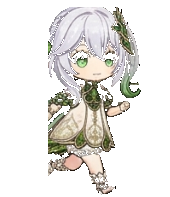
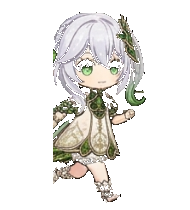
fix(companion): preserve floating height when clicked and eliminate cape/leaf clipping

Changed region(s): [[0.2647, 0.0305, 0.8235, 1.0]]

diff --git a/src/components/athena_widget.rs b/src/components/athena_widget.rs
@@ -147,6 +147,7 @@ pub fn AthenaWidget() -> impl IntoView {
         let mut pos_bottom: f64 = 20.0;
         let floor_bottom: f64 = 20.0;
         let left_boundary: f64 = 24.0;
+        let mut chat_anchor_bottom: f64 = 20.0;
 
         let mut state_time: f64 = 0.0;
         let mut anim_accum_ms: f64 = 0.0;
@@ -242,6 +243,11 @@ pub fn AthenaWidget() -> impl IntoView {
                 state = CharacterState::ChatStandby;
                 state_time = 0.0;
                 anim_accum_ms = 0.0;
+                // Preserve floating altitude if clicked in mid-air (clamped so thought bubble fits on screen)
+                let max_dock_bottom = (win_h - 540.0 - 140.0).max(floor_bottom);
+                chat_anchor_bottom = pos_bottom.clamp(floor_bottom, max_dock_bottom);
+                pos_bottom = chat_anchor_bottom;
+
                 set_current_sprite.set(POSE_STANDBY);
                 set_bubble_text.set("Ask me anything!");
                 set_bubble_icon.set("✨");
@@ -249,12 +255,22 @@ pub fn AthenaWidget() -> impl IntoView {
                 set_rotation.set(0.0);
                 set_scale.set(1.0);
             } else if !open && was_open {
-                state = CharacterState::Running;
+                // If closed while elevated, continue floating down with parachute
+                if pos_bottom > floor_bottom + 15.0 {
+                    state = CharacterState::Dropped;
+                    set_current_sprite.set(if direction == Direction::Left { DROPPED_LEFT } else { DROPPED_RIGHT });
+                    set_bubble_text.set("Floating... ✨");
+                    set_bubble_icon.set("🪂");
+                    set_bubble_dot.set("#34d399");
+                } else {
+                    pos_bottom = floor_bottom;
+                    state = CharacterState::Running;
+                    set_bubble_text.set("Exploring...");
+                    set_bubble_icon.set("🌿");
+                }
                 state_time = 0.0;
                 anim_accum_ms = 0.0;
                 set_rotation.set(0.0);
-                set_bubble_text.set("Exploring...");
-                set_bubble_icon.set("🌿");
             }
             was_open = open;
 
@@ -438,7 +454,8 @@ pub fn AthenaWidget() -> impl IntoView {
 
                 // 7. Thinking (Slow 500ms pose loop)
                 CharacterState::Thinking => {
-                    pos_bottom = floor_bottom;
+                    let float_y = (state_time / 1200.0).sin() * 1.5;
+                    pos_bottom = chat_anchor_bottom + float_y;
                     set_rotation.set(0.0);
                     if anim_accum_ms >= 500.0 {
                         anim_accum_ms = 0.0;
@@ -454,9 +471,10 @@ pub fn AthenaWidget() -> impl IntoView {
                     set_bubble_dot.set("#60a5fa");
                 }
 
-                // 9. Answering / Excited (220ms pose loop)
+                // 8. Answering / Excited (220ms pose loop)
                 CharacterState::Answering => {
-                    pos_bottom = floor_bottom;
+                    let float_y = (state_time / 1200.0).sin() * 1.5;
+                    pos_bottom = chat_anchor_bottom + float_y;
                     set_rotation.set(0.0);
                     if anim_accum_ms >= 220.0 {
                         anim_accum_ms = 0.0;
@@ -472,13 +490,19 @@ pub fn AthenaWidget() -> impl IntoView {
                     set_bubble_dot.set("#fbbf24");
                 }
 
-                // 10. Standby / Neutral Standing (rising_04 with subtle procedural float)
-                CharacterState::Standby | CharacterState::ChatStandby => {
+                // 9. Standby / Neutral Standing (rising_04 with subtle procedural float)
+                CharacterState::Standby => {
                     set_current_sprite.set(POSE_STANDBY);
                     set_rotation.set(0.0);
-                    // Subtle float: ~1.5px vertical breath cycle
                     let float_y = (state_time / 1200.0).sin() * 1.5;
                     pos_bottom = floor_bottom + float_y;
+                }
+
+                CharacterState::ChatStandby => {
+                    set_current_sprite.set(POSE_STANDBY);
+                    set_rotation.set(0.0);
+                    let float_y = (state_time / 1200.0).sin() * 1.5;
+                    pos_bottom = chat_anchor_bottom + float_y;
                 }
 
                 CharacterState::Dragging => {}
@@ -591,7 +615,7 @@ pub fn AthenaWidget() -> impl IntoView {
         let modal_left = ideal_left.clamp(12.0, (win_w - modal_width - 12.0).max(12.0));
 
         // Position bottom of thought bubble directly above Nahida's head (+ gap for connector dots)
-        let modal_bottom = bottom.get() + 116.0;
+        let modal_bottom = (bottom.get() + 116.0).min(win_h - modal_height - 16.0).max(16.0);
 
         // Tail connector offset (points directly down towards Athena)
         let tail_x = (athena_center_x - modal_left).clamp(36.0, modal_width - 36.0);
@@ -690,7 +714,7 @@ pub fn AthenaWidget() -> impl IntoView {
                 // Floating Speech Bubble (Fades when thought bubble opens)
                 <div
                     class=move || format!(
-                        "relative mb-1 px-2.5 py-1 rounded-xl bg-zinc-950/90 border border-zinc-700/80 text-zinc-100 text-[11px] font-mono shadow-xl flex items-center gap-1.5 whitespace-nowrap transition-opacity duration-200 {}",
+                        "relative mb-3.5 px-2.5 py-1 rounded-xl bg-zinc-950/90 border border-zinc-700/80 text-zinc-100 text-[11px] font-mono shadow-xl flex items-center gap-1.5 whitespace-nowrap transition-opacity duration-200 {}",
                         if is_open.get() { "opacity-0 pointer-events-none" } else { "opacity-100" }
                     )
                 >
@@ -703,7 +727,7 @@ pub fn AthenaWidget() -> impl IntoView {
                 </div>
 
                 // Fixed-Height Stage Box (96px height, bottom-center foot anchor prevents all jumping)
-                <div class="h-24 w-28 flex items-end justify-center pointer-events-none select-none">
+                <div class="h-24 w-32 flex items-end justify-center pointer-events-none select-none">
                     <img
                         src=move || current_sprite.get()
                         alt="Nahida Chibi Companion"
